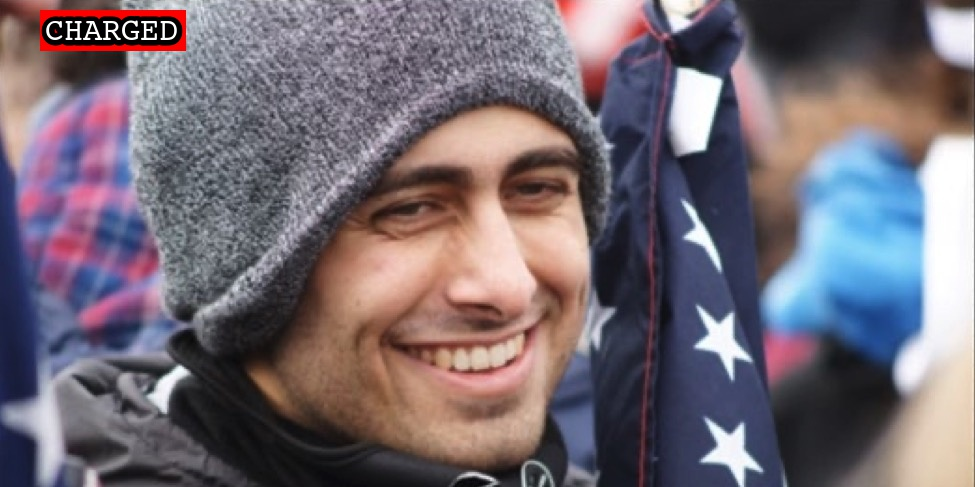
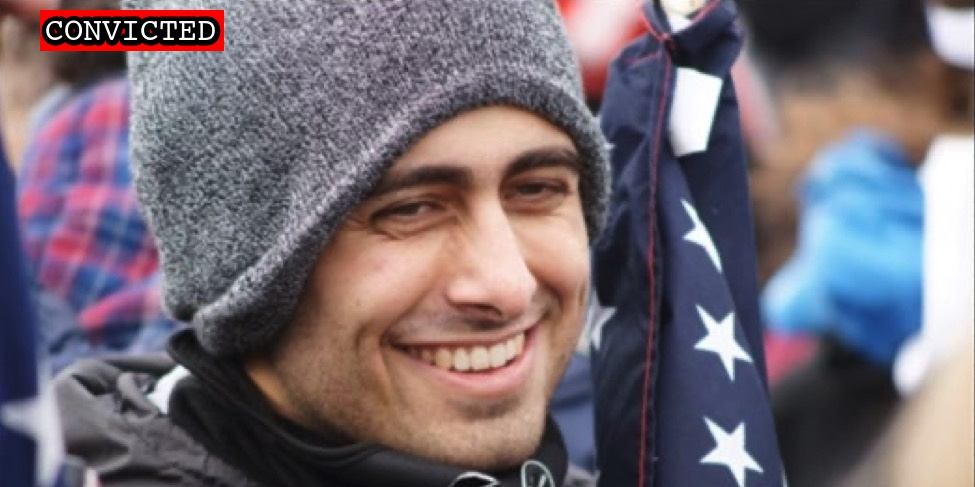
Latest import

Changed region(s): [[0.0615, 0.0, 0.2462, 0.1232]]

diff --git a/commands/suspect-import.ts b/commands/suspect-import.ts
@@ -448,6 +448,7 @@ const linkType = (description: string, lastName?: string) => {
     case /Statement of Offense/.test(description):
     case /statement of offense/.test(description):
     case /.*statement_of_offense.pdf/.test(description):
+    case /Statement of Ofense/.test(description):
       return "Statement of Offense";
     case /Indictment/.test(description):
     case /indictment/.test(description):

diff --git a/docs/_suspects/robert-schornak.md b/docs/_suspects/robert-schornak.md
@@ -36,17 +36,16 @@ published: true
 caseNumber: 1:21-cr-278
 videos:
 charges:
-  - code: 18 USC § 1752(a)(1)
-    title: Entering a restricted building or grounds
-    url: https://www.law.cornell.edu/uscode/text/18/1752
-    felony: false
+- code: 18 USC § 1752(a)(1)
+  title: Entering a restricted building or grounds
+  url: https://www.law.cornell.edu/uscode/text/18/1752
+  felony: false
 sentence:
   - 28 days intermittent confinement
   - 60 days home detention
   - 3 years probation
   - $500 restitution
 ---
-
 - [News Report](https://www.detroitnews.com/story/news/local/detroit-city/2021/03/18/us-capitol-riot-leads-charges-against-two-more-michigan-men/4746118001/)
 - [Complaint](https://www.justice.gov/usao-dc/case-multi-defendant/file/1379311/download)
 - [Statement of Facts](https://www.justice.gov/usao-dc/case-multi-defendant/file/1379306/download)
@@ -54,3 +53,5 @@ sentence:
 - [Plea Agreement](https://www.justice.gov/usao-dc/case-multi-defendant/file/1448086/download)
 - [Statement of Offense](https://www.justice.gov/usao-dc/case-multi-defendant/file/1448091/download)
 - [Judgement](https://storage.courtlistener.com/recap/gov.uscourts.dcd.229688/gov.uscourts.dcd.229688.71.0.pdf)
+- [Sentencing Memo](https://extremism.gwu.edu/sites/g/files/zaxdzs2191/f/Robert%20Schornak%20Defense%20Sentencing%20Memorandum.pdf)
+- [Sentencing Hearing Transcript](https://extremism.gwu.edu/sites/g/files/zaxdzs2191/f/Robert%20Schornak%20Sentencing%20Hearing%20Transcript.pdf)

diff --git a/docs/_suspects/iraj-javid.md b/docs/_suspects/iraj-javid.md
@@ -4,15 +4,17 @@ lastName: Javid
 hashtag: WhiteLogoInsider
 aka:
 residence: Virginia
-status: Charged
+status: Convicted
 date: 2022-03-01
 charged: 2022-03-01
 indicted:
-convicted:
+convicted: 2022-08-12
+acquitted:
 sentenced:
 dismissed:
 deceased:
-plea_hearing:
+plea_hearing: 2022-08-12
+trial_date:
 sentencing:
 age: 31
 occupation: Washington Metropolitan Area Transit Authority IT Specialist
@@ -31,11 +33,18 @@ description: Click for latest case details. Suspects innocent until proven guilt
 author: seditiontrack
 layout: suspect
 published: true
-caseNumber: 1:22-mj-48
+caseNumber: 1:22-cr-77
 videos:
 charges:
+- code: 40 USC § 5104(e)(2)(G)
+  title: Parading, demonstrating or picketing in a Capitol building
+  url: https://www.law.cornell.edu/uscode/text/40/5104
+  felony: false
 sentence:
 ---
 - [News Report](https://www.wusa9.com/article/news/local/dc/metro-employee-arrested-capitol-riot-involvement-january-6-department-of-justice/65-d3734cf3-da22-4330-8287-c9b1ce95b0fa)
 - [Complaint](https://www.justice.gov/usao-dc/case-multi-defendant/file/1479821/download)
 - [Statement of Facts](https://www.justice.gov/usao-dc/case-multi-defendant/file/1479826/download)
+- [Information](https://www.justice.gov/usao-dc/case-multi-defendant/file/1526146/download)
+- [Plea Agreement](https://www.justice.gov/usao-dc/case-multi-defendant/file/1526151/download)
+- [Statement of Offense](https://www.justice.gov/usao-dc/case-multi-defendant/file/1526156/download)

diff --git a/docs/_suspects/richard-barnard.md b/docs/_suspects/richard-barnard.md
@@ -36,17 +36,16 @@ published: true
 caseNumber: 1:21-cr-235
 videos:
 charges:
-  - code: 40 USC § 5104(e)(2)(G)
-    title: Parading, demonstrating or picketing in a Capitol building
-    url: https://www.law.cornell.edu/uscode/text/40/5104
-    felony: false
+- code: 40 USC § 5104(e)(2)(G)
+  title: Parading, demonstrating or picketing in a Capitol building
+  url: https://www.law.cornell.edu/uscode/text/40/5104
+  felony: false
 sentence:
   - 30 days home detention
   - 1 year probation
   - 60 hours community service
   - $500 restitution
 ---
-
 - [News Report](https://www.dailymail.co.uk/news/article-9360743/Two-men-charged-Capitol-riot-posted-video-claiming-crashed-White-House.html)
 - [Statement of Facts](https://www.justice.gov/usao-dc/case-multi-defendant/file/1378401/download)
 - [Indictment](https://www.justice.gov/usao-dc/case-multi-defendant/file/1378236/download)
@@ -54,3 +53,4 @@ sentence:
 - [Sentencing Memo](https://extremism.gwu.edu/sites/g/files/zaxdzs2191/f/Dawn%20Bancroft%20Defense%20Sentencing%20Memorandum.pdf)
 - [Judgement](https://extremism.gwu.edu/sites/g/files/zaxdzs2191/f/Richard%20Franklin%20Barnard%20Judgment.pdf)
 - [Statement of Offense](https://www.justice.gov/usao-dc/case-multi-defendant/file/1443876/download)
+- [Sentencing Hearing Transcript](https://extremism.gwu.edu/sites/g/files/zaxdzs2191/f/Jeffery%20Shane%20Witcher%20and%20Richard%20Franklin%20Barnard%20Sentencing%20Hearing%20Transcript.pdf)

diff --git a/docs/_suspects/mariposa-castro.md b/docs/_suspects/mariposa-castro.md
@@ -36,15 +36,14 @@ published: true
 caseNumber: 1:21-cr-299
 videos:
 charges:
-  - code: 40 USC § 5104(e)(2)(G)
-    title: Parading, demonstrating or picketing in a Capitol building
-    url: https://www.law.cornell.edu/uscode/text/40/5104
-    felony: false
+- code: 40 USC § 5104(e)(2)(G)
+  title: Parading, demonstrating or picketing in a Capitol building
+  url: https://www.law.cornell.edu/uscode/text/40/5104
+  felony: false
 sentence:
   - 45 days incarceration
   - $5000 fine
 ---
-
 - [News Report](https://www.ktvu.com/news/gilroy-woman-charged-in-capitol-riot)
 - [Self Incrimination (VIDEO)](https://twitter.com/henrykleeKTVU/status/1360386497577275394)
 - [Complaint](https://extremism.gwu.edu/sites/g/files/zaxdzs2191/f/Mariposa%20Castro%20Criminal%20Complaint.pdf)
@@ -54,3 +53,4 @@ sentence:
 - [Sentencing Memo](https://extremism.gwu.edu/sites/g/files/zaxdzs2191/f/Mariposa%20Castro%20Defense%20Response%20to%20Government%20Sentencing%20Memorandum.pdf)
 - [Statement of Offense](https://www.justice.gov/usao-dc/case-multi-defendant/file/1452321/download)
 - [Judgement](https://storage.courtlistener.com/recap/gov.uscourts.dcd.230071/gov.uscourts.dcd.230071.48.0.pdf)
+- [Sentencing Hearing Transcript](https://extremism.gwu.edu/sites/g/files/zaxdzs2191/f/Mariposa%20Castro%20Sentencing%20Hearing%20Transcript.pdf)

diff --git a/docs/_suspects/jennifer-horvath.md b/docs/_suspects/jennifer-horvath.md
@@ -4,11 +4,11 @@ lastName: Horvath
 hashtag:
 aka:
 residence: Colorado
-status: Charged
+status: Convicted
 date: 2022-03-10
 charged: 2022-03-10
 indicted:
-convicted:
+convicted: 2022-08-12
 acquitted:
 sentenced:
 dismissed:
@@ -33,12 +33,18 @@ description: Click for latest case details. Suspects innocent until proven guilt
 author: seditiontrack
 layout: suspect
 published: true
-caseNumber: 1:22-mj-77
+caseNumber: 1:22-cr-192
 videos:
 charges:
+- code: 40 USC § 5104(e)(2)(G)
+  title: Parading, demonstrating or picketing in a Capitol building
+  url: https://www.law.cornell.edu/uscode/text/40/5104
+  felony: false
 sentence:
 ---
-
 - [News Report](https://denver.cbslocal.com/2022/05/03/jennifer-horvath-girlfriend-wes-croy-capitol-riot-january-6-2021-insurrection-charges/)
 - [Complaint](https://www.justice.gov/usao-dc/case-multi-defendant/file/1499086/download)
 - [Statement of Facts](https://www.justice.gov/usao-dc/case-multi-defendant/file/1499091/download)
+- [Information](https://www.justice.gov/usao-dc/case-multi-defendant/file/1526161/download)
+- [Plea Agreement](https://www.justice.gov/usao-dc/case-multi-defendant/file/1526166/download)
+- [Statement of Offense](https://www.justice.gov/usao-dc/case-multi-defendant/file/1526171/download)

diff --git a/docs/_suspects/loammi-yazdani-isfehani.md b/docs/_suspects/loammi-yazdani-isfehani.md
@@ -36,13 +36,12 @@ published: true
 caseNumber: 1:21-cr-543
 videos:
 charges:
-  - code: 40 USC § 5104(e)(2)(G)
-    title: Parading, demonstrating or picketing in a Capitol building
-    url: https://www.law.cornell.edu/uscode/text/40/5104
-    felony: false
+- code: 40 USC § 5104(e)(2)(G)
+  title: Parading, demonstrating or picketing in a Capitol building
+  url: https://www.law.cornell.edu/uscode/text/40/5104
+  felony: false
 sentence:
 ---
-
 - [News Report](https://sports.yahoo.com/two-athens-county-sisters-join-205327176.html)
 - [Complaint](https://www.justice.gov/usao-dc/case-multi-defendant/file/1477206/download)
 - [Statement of Facts](https://www.justice.gov/usao-dc/case-multi-defendant/file/1477211/download)

diff --git a/docs/_suspects/verden-nalley.md b/docs/_suspects/verden-nalley.md
@@ -55,3 +55,4 @@ sentence:
 - [Sentencing Memo](https://extremism.gwu.edu/sites/g/files/zaxdzs2191/f/Verden%20Andrew%20Nalley%20Defense%20Sentencing%20Memorandum.pdf)
 - [Judgement](https://extremism.gwu.edu/sites/g/files/zaxdzs2191/f/Verden%20Andrew%20Nalley%20Judgment.pdf)
 - [Ammended Judgement](https://extremism.gwu.edu/sites/g/files/zaxdzs2191/f/Verden%20Andrew%20Nalley%20Amended%20Judgment.pdf)
+- [Sentencing Hearing Transcript](https://extremism.gwu.edu/sites/g/files/zaxdzs2191/f/Verden%20Andrew%20Nalley%20Sentencing%20Hearing%20Transcript.pdf)

diff --git a/docs/_suspects/kenneth-kelly.md b/docs/_suspects/kenneth-kelly.md
@@ -52,3 +52,4 @@ sentence:
 - [Statement of Offense](https://extremism.gwu.edu/sites/g/files/zaxdzs2191/f/Kenneth%20Kelly%20Statement%20of%20Offense.pdf)
 - [Judgement](https://storage.courtlistener.com/recap/gov.uscourts.dcd.230844/gov.uscourts.dcd.230844.45.0_2.pdf)
 - [Sentencing Memo](https://extremism.gwu.edu/sites/g/files/zaxdzs2191/f/Kenneth%20Kelly%20Defense%20Sentencing%20Memorandum.pdf)
+- [Sentencing Hearing Transcript](https://extremism.gwu.edu/sites/g/files/zaxdzs2191/f/Kenneth%20Kelly%20Sentencing%20Hearing%20Transcript.pdf)

diff --git a/docs/_suspects/brian-mccreary.md b/docs/_suspects/brian-mccreary.md
@@ -54,3 +54,4 @@ sentence:
 - [Statement of Offense](https://www.justice.gov/usao-dc/case-multi-defendant/file/1442601/download)
 - [Sentencing Memo](https://extremism.gwu.edu/sites/g/files/zaxdzs2191/f/Brian%20McCreary%20Defense%20Sentencing%20Memorandum.pdf)
 - [Judgement](https://extremism.gwu.edu/sites/g/files/zaxdzs2191/f/Brian%20McCreary%20Judgment.pdf)
+- [Sentencing Hearing Transcript](https://extremism.gwu.edu/sites/g/files/zaxdzs2191/f/Brian%20McCreary%20Sentencing%20Hearing%20Transcript.pdf)

diff --git a/docs/_suspects/vic-williams.md b/docs/_suspects/vic-williams.md
@@ -54,3 +54,4 @@ sentence:
 - [Statement of Offense](https://www.justice.gov/usao-dc/case-multi-defendant/file/1445706/download)
 - [Sentencing Memo](https://extremism.gwu.edu/sites/g/files/zaxdzs2191/f/Vic%20Williams%20Defense%20Sentencing%20Memorandum.pdf)
 - [Judgement](https://extremism.gwu.edu/sites/g/files/zaxdzs2191/f/Vic%20Williams%20Judgment.pdf)
+- [Sentencing Hearing Transcript](https://extremism.gwu.edu/sites/g/files/zaxdzs2191/f/Vic%20Williams%20Sentencing%20Hearing%20Transcript.pdf)
